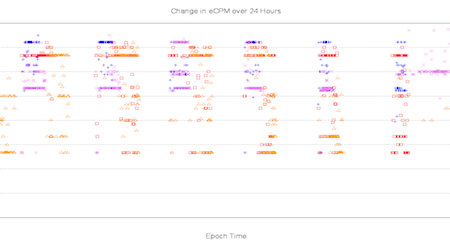
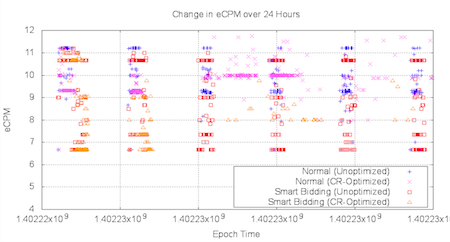
wording, fix smart bidding image

diff --git a/conf_contact.html b/conf_contact.html
@@ -67,8 +67,9 @@
             <h3 class="panel-title">Success</h3>
 	  </div>
 	  <div class="panel-body">
-	    Your information has been successfully submitted&mdash;the Freeplay principal, Eric Hsu,
-	    will respond to your inquiry by email as soon as possible.
+	    Your information has been successfully
+	    submitted&mdash;Freeplay Data will respond to your inquiry
+	    by email as soon as possible.
           </div>
 	</div>
       </div>

diff --git a/index.html b/index.html
@@ -307,7 +307,7 @@
                   Auction Strategy, Scheduling, UAVs and More...
                 </div>
                 <div class="project-name">
-                  Other Expertise
+                  Other Projects
                 </div>
 	      </div>
             </div>

diff --git a/README.md b/README.md
@@ -1,2 +1,7 @@
 # bluesoxx.github.io
 Landing page for bluesoxx.com.
+
+
+TODO:
++ Confirm that Facebook pixel events are working.
++ Confirm that Google Analytics are working.
